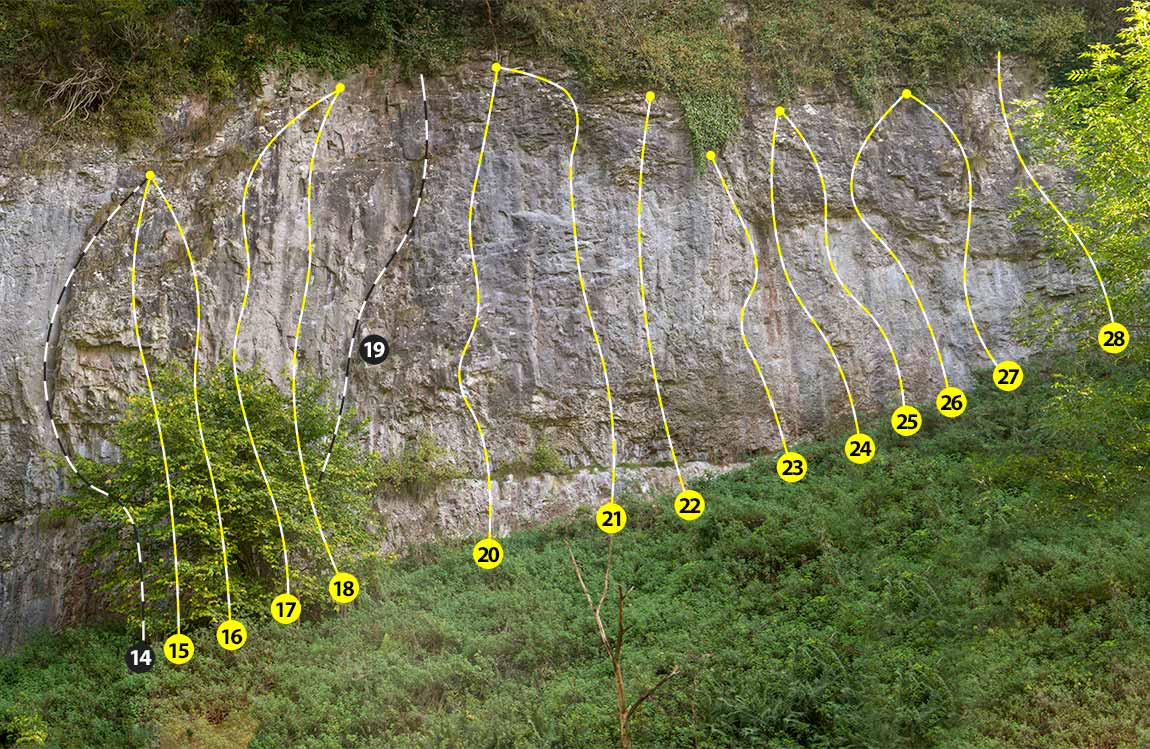
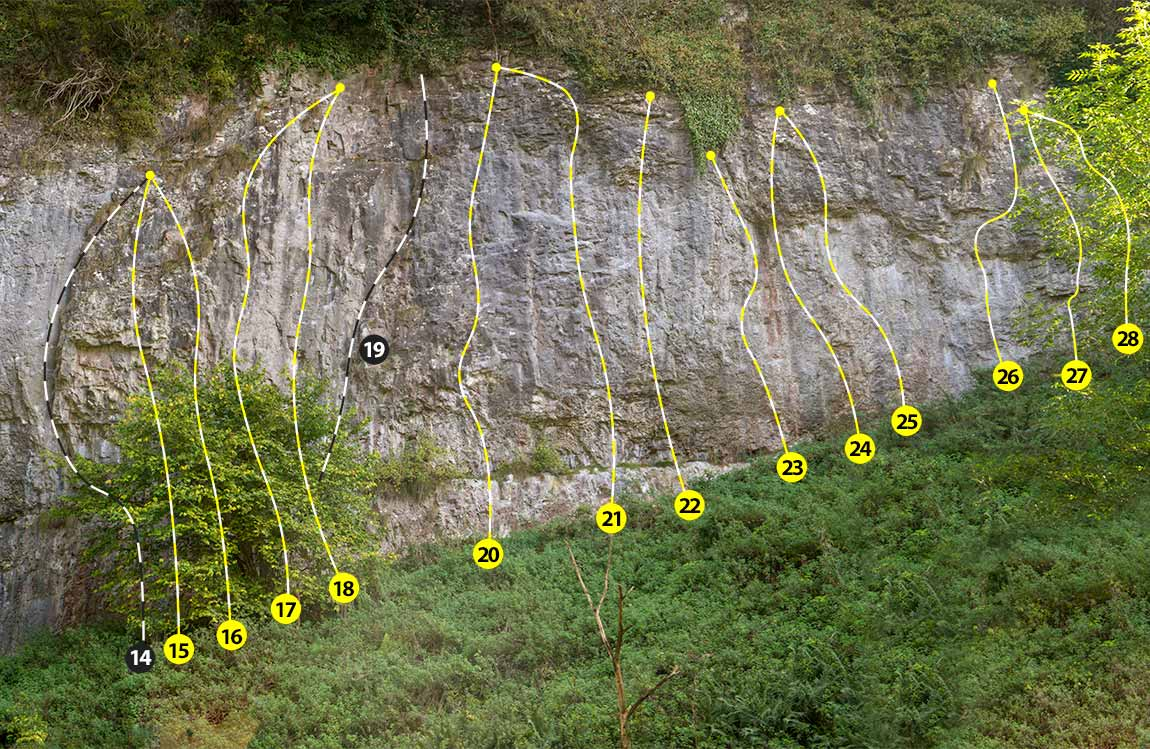
corrections to HH long wall, Two Tier Main Right topo. Headings h1, h2 to text-wrap: balance

diff --git a/assets/scss/global2020.scss b/assets/scss/global2020.scss
@@ -188,16 +188,20 @@ header {
     margin: 1em 0;
 }
 
-h1 {
+h1,
+h2 {
     color: var(--heading-color);
-    /* text-shadow: 2px 2px var(--container-bg), 3px 3px var(--heading-color); */
+    line-height: 1;
+    text-wrap: balance;
+
+}
+
+h1 {
     font-weight: 700;
     font-size: 4.2em;
-    line-height: 1;
     letter-spacing: -0.05em;
-    display: block;
+    // display: block;
     margin: 0;
-
 }
 
 h1>small {
@@ -207,9 +211,7 @@ h1>small {
 
 h2 {
     font-size: 2em;
-    color: var(--heading-color);
     margin: 2.5rem 0 .5em 0;
-    line-height: 1;
 }
 
 .content> :first-child {

diff --git a/content/peak/buxton/harpur-hill/hh-long-wall.md b/content/peak/buxton/harpur-hill/hh-long-wall.md
@@ -29,7 +29,6 @@ Short but good
 **4. Timetable Failure (5)**  
 Slightly easier to the right.
 
-
 **5. Sleeping Sickness (6b)**  
 Slim groove and short wall on left.
 {.rebolted}
@@ -38,21 +37,24 @@ Slim groove and short wall on left.
 The pleasant face left of centre.
 {.rebolted}
 
-**7. Insomnia (6b) *★***  
-Climbs up the slab and through the left side of the overlap.
+**7. Braking Bad (6b+) *★***  
+The the overlap on the left side and up the arête. Good.
 
-**8. Braking Bad (6b+) *★***  
-NEW overlap and arête. Good.
+**8. Insomnia (6b) *★***  
+Climbs up the wall to the right of the hanging corner.
 
 **9.Sleep On It (6b) *★***  
 Slim wall on the right with a tricky start and central section and new belay.
 {.rebolted} 
 
-**10. Moabi (6a)**  
-NEW pillar to the right.
+**10. Just the Ticket (VS 4b)**  
+This is the obvious crack.
 
-**11. Waas it? (5+)**  
+**11. Was it? (5)**  
 NEW arête on the right.
+
+**Moabi (6a)**  
+NEW Not on the topo but climbs a line a little further right.
 
 
 ## Long Wall Left

diff --git a/READLOCAL.md b/READLOCAL.md
@@ -16,6 +16,8 @@ Further split crags into separate sectors:
 - east, west, south (3)
 - darkside, plateau, darkside lower, lower, cairn vacinity. (5)
 
+Upper and lower are probably the simplest to understand, especially for new visitors, although Sanctuary/The Retreat don't easily fit in. What about The Playground.
+
 **upper crags** 7
 darkside left, darkside right, perched block, papacy, exclusion, prophesy, playgournd?
 

diff --git a/content/peak/cheedale/two-tier/two-tier-main-right.md b/content/peak/cheedale/two-tier/two-tier-main-right.md
@@ -58,5 +58,5 @@ Desperate past the 2nd BR. Start via groove.
 **27. Tippers (7a)**  
 A short desperate wall leads to easy ground and a BB above.
 
-**28. Tip Dollar (6b)**  
-The short and pleasant on rib.
+**28. Tip Dollar (6a+)**  
+The short and pleasant on rib. New belay added in 2023.
